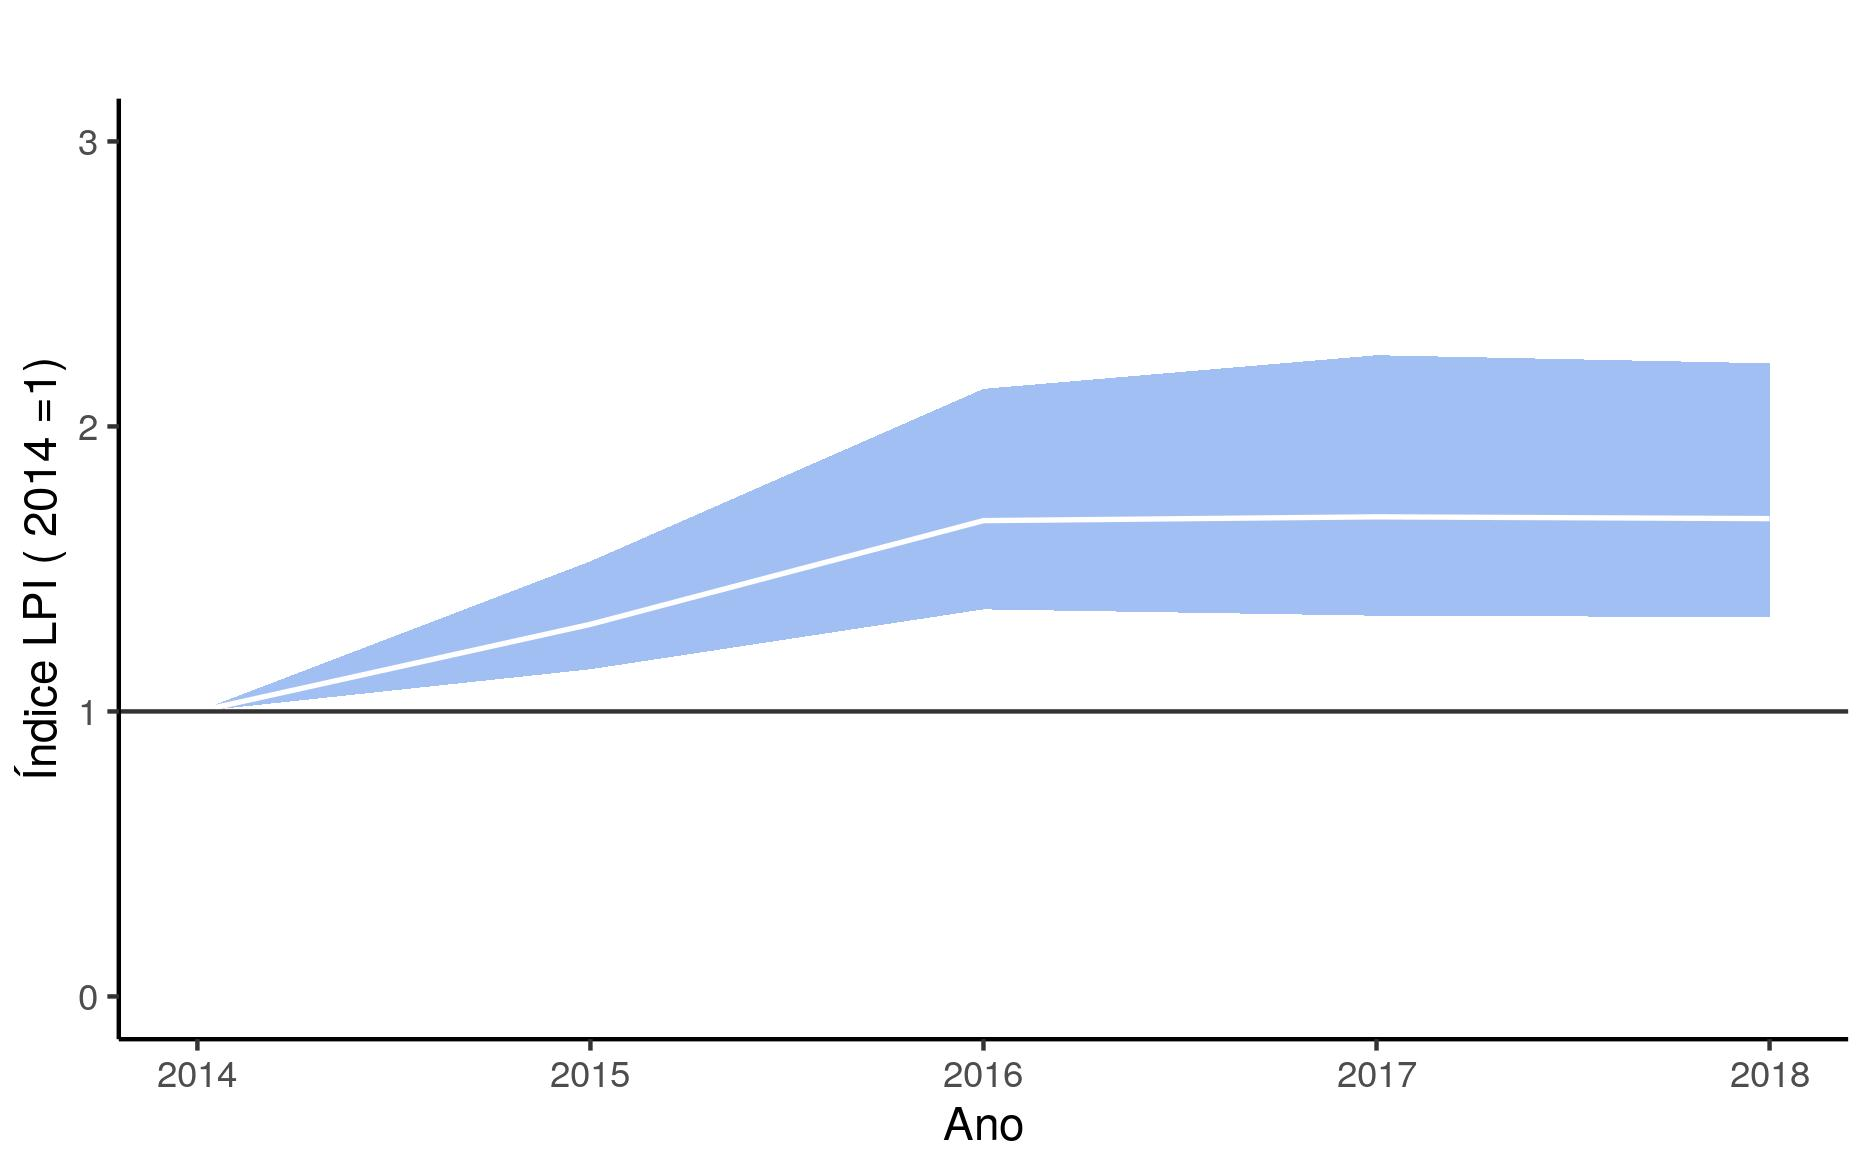
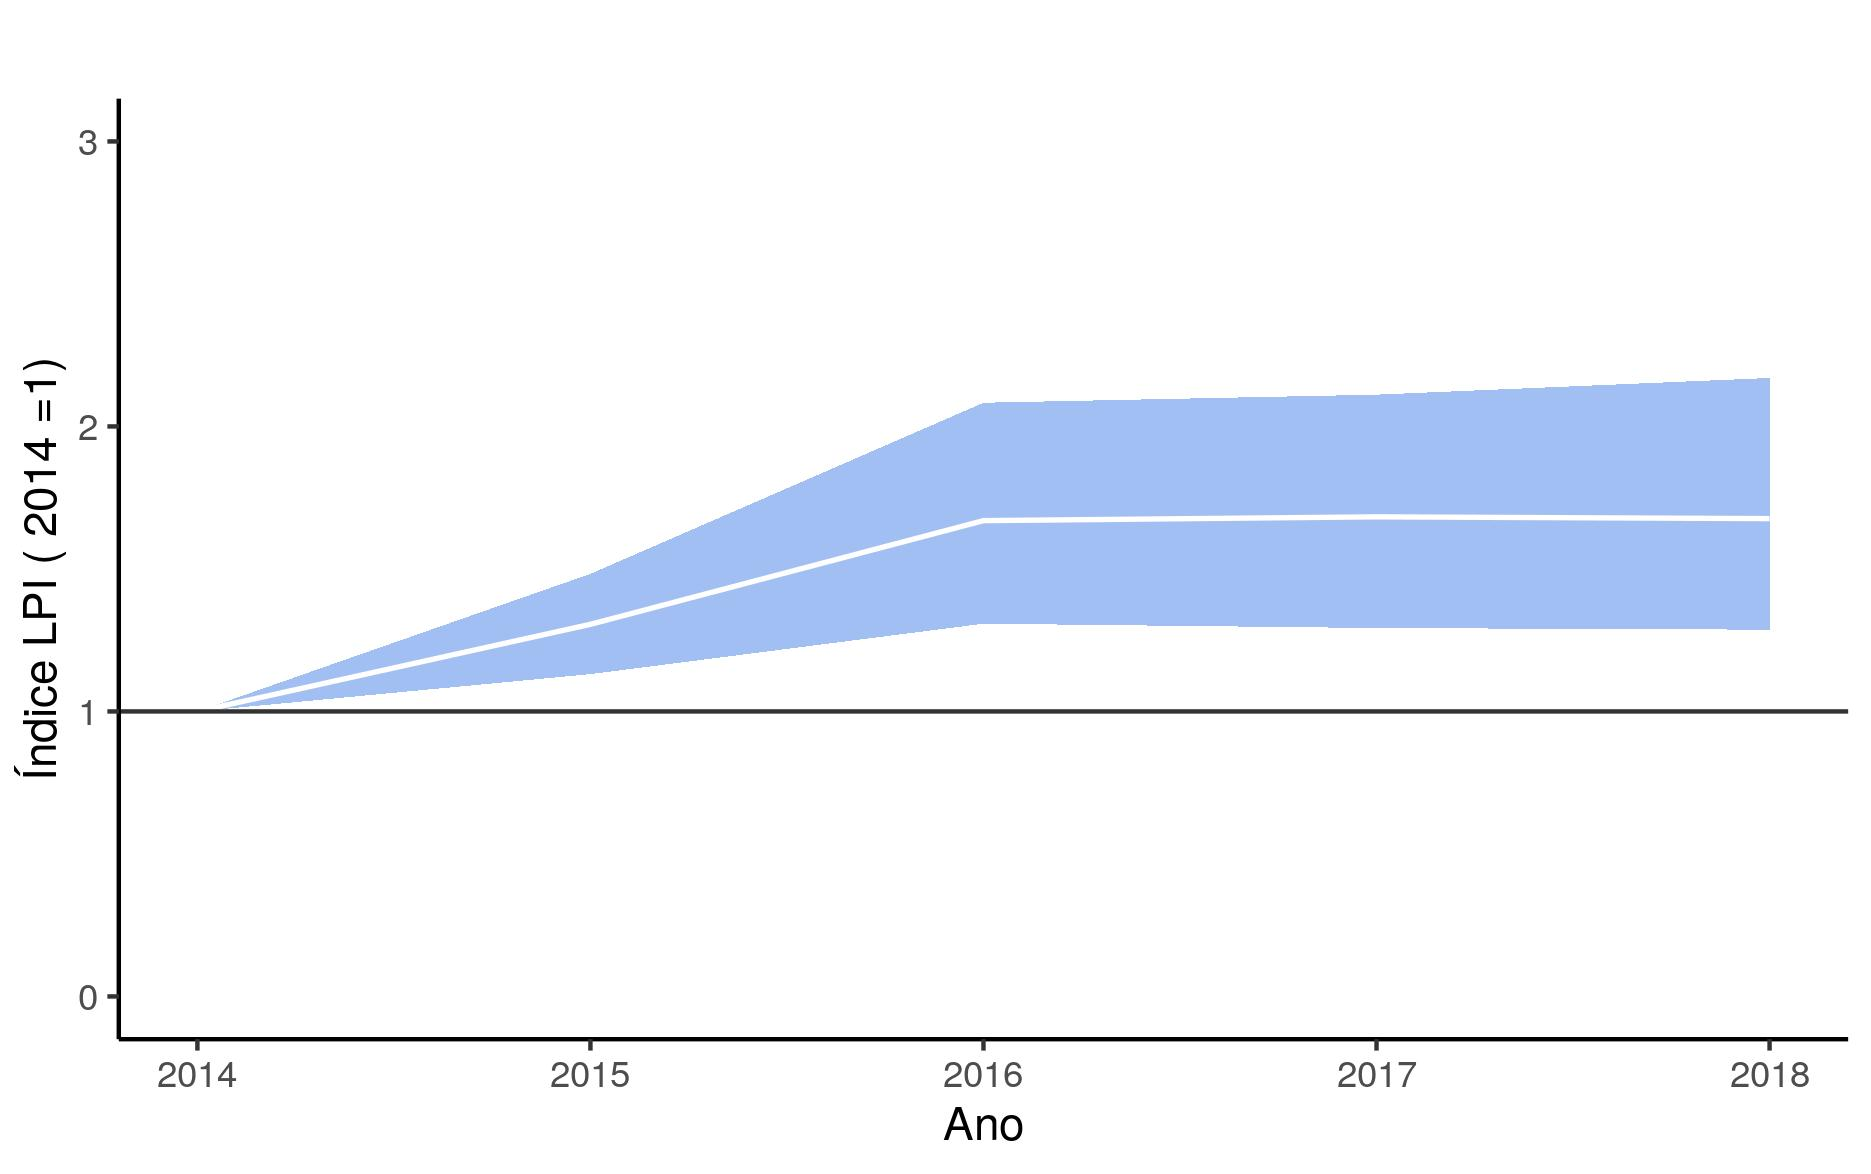
Updated a lot of stuff

diff --git a/README.md b/README.md
@@ -1,7 +1,7 @@
 # Programa-Monitora-Florestal-Global
 Analise de dados Mastoaves do protocolo florestal global do **Programa Monitora-ICMBio**
 
-Prepara os dados do Monitora-ICMBio, colocando-os no formato exigido pelo pacote *rlpi*, desenvolvido pela [**Zoological Society of London**](https://github.com/Zoological-Society-of-London/rlpi);
+Prepara os dados do Monitora-ICMBio no formato exigido pelo pacote *rlpi*, desenvolvido pela [**Zoological Society of London**](https://github.com/Zoological-Society-of-London/rlpi);
 
 Cria subsets dos dados com UC e grupo taxonômico de interesse (e.g., mamíferos, aves);
 
@@ -12,14 +12,14 @@ Calcula o **LPI (Living Planet Index)** a partir de dados do protocolo florestal
 ### Descrição
 ```src``` Contém os códigos para as análises.
 
-```data``` Dados da amostragem com armadilhas fotográficas no Uei-Tepui, Novembro de 2019 a Fevereiro de 2020. 
+```data``` Dados brutos e processados. 
 
 ```bin``` Códigos e funções úteis que são chamadas pelos códigos principais.
 
-```results``` Contém os resultados das análises, como tabelas e figuras.
+```results``` Contém resultados das análises.
 
 
-<img src="results/lpi-global.jpg" title="LPI Global" width="500">
+<img src="results/lpi-spp-selecionadas.jpg" title="LPI Global" width="500">
 
 Figura 1. LPI Global para os dados do ICMBio, 2014-2018.
 
